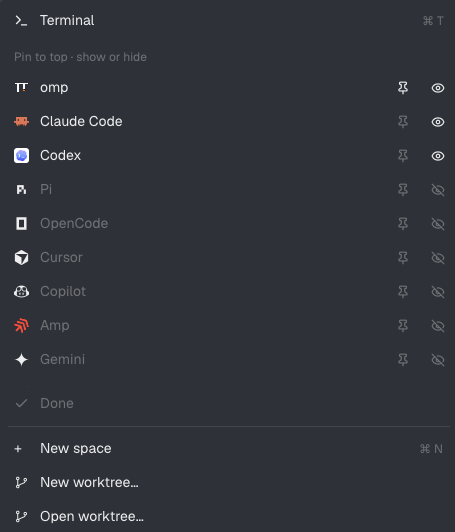
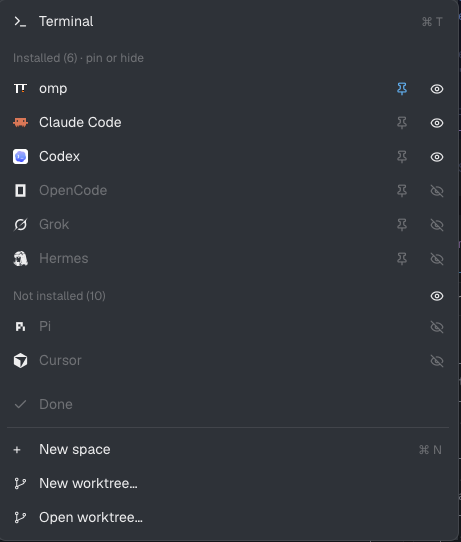
new-menu-plus: switch for not-installed agents, sectioned edit list, accent pins

diff --git a/new-menu-plus/mods/new-menu-plus/main.js b/new-menu-plus/mods/new-menu-plus/main.js
@@ -4,9 +4,11 @@ import { theme, spaces, panes, knownAgents, run, openOverlay, closeOverlay, prop
 
 // This mod's folder, for its own icons.
 const DIR = "mods/new-menu-plus";
-// Agent keys, persisted for every window, set under "Edit agents…".
+// Persisted for every window, set under "Edit agents…": agent keys, and whether
+// agents that aren't installed stay out of the menu.
 const HIDDEN = "newMenu.hidden";
 const PINNED = "newMenu.pinned";
+const HIDE_MISSING = "newMenu.hideMissing";
 
 /** @param {string} key @returns {string[]} */
 function keys(key) {
@@ -44,34 +46,46 @@ export default class NewMenu extends View {
       })
       .child(icon).child(div().flex_1().child(name)).child(div().text_size(11).text_color(t.dim).child(hint));
   }
-  // Edit mode: the row itself doesn't click; its pin and eye buttons do.
+  // Edit mode: the row itself doesn't click; its buttons do.
+  button(id, file, color, action) {
+    const t = theme();
+    return div().id(id).size(22).rounded(5).flex().items_center().justify_center()
+      .hover(s => s.bg(t.selected)).on_click(() => action())
+      .child(svg(`${DIR}/${file}`).size(13).text_color(color));
+  }
   editRow(a, icon, pinned, hidden) {
     const t = theme();
-    const button = (id, file, on, action) => div().id(id).size(22).rounded(5).flex().items_center().justify_center()
-      .hover(s => s.bg(t.selected)).on_click(() => action())
-      .child(svg(`${DIR}/${file}`).size(13).text_color(on ? t.foreground : t.dim));
     return h_flex().id(a.key).h(31).pl(9).pr(4).gap(10).rounded(7).items_center().flex_none()
       .text_color(hidden ? t.dim : t.foreground)
       .child(icon).child(div().flex_1().child(a.name))
-      .child(button(`pin-${a.key}`, "pin.svg", pinned, () => toggle(PINNED, a.key)))
-      .child(button(`eye-${a.key}`, hidden ? "eye-off.svg" : "eye.svg", !hidden, () => toggle(HIDDEN, a.key)));
+      .when(a.installed, el => el.child(this.button(`pin-${a.key}`, "pin.svg", pinned ? t.accent : t.dim, () => toggle(PINNED, a.key))))
+      .child(this.button(`eye-${a.key}`, hidden ? "eye-off.svg" : "eye.svg", hidden ? t.dim : t.foreground, () => toggle(HIDDEN, a.key)));
   }
   render() {
     const t = theme();
     const space = spaces().find(s => s.active);
     const hidden = new Set(keys(HIDDEN));
     const pinned = keys(PINNED);
+    const hideMissing = shared(HIDE_MISSING) === true;
     const rank = a => { const i = pinned.indexOf(a.key); return i < 0 ? pinned.length : i; };
     const ordered = [...this.agents].sort((a, b) => rank(a) - rank(b));
-    const installed = ordered.filter(a => a.installed && !hidden.has(a.key));
-    const choices = this.editing ? ordered : [...installed, ...ordered.filter(a => !a.installed && !hidden.has(a.key)).slice(0, 2)];
+    const all = ordered.filter(a => a.installed);
+    const missing = ordered.filter(a => !a.installed);
+    const installed = all.filter(a => !hidden.has(a.key));
+    const hiddenCount = all.length - installed.length;
     const mod = window()?.platform === "macos" ? "⌘" : "Ctrl";
     const icon = a => a.tint ? svg(a.icon).size(14).text_color(t.foreground) : image(a.icon).size(14);
-    const agentRow = (a, i) => this.editing
-      ? this.editRow(a, icon(a), pinned.includes(a.key), hidden.has(a.key))
-      : this.row(a.key, icon(a), a.name, () => run("tab.new", { name: a.name, space: space?.id, argv: a.run }),
-        a.installed ? (i < 9 ? `${mod} ${i + 1}` : "") : "not installed", a.installed);
-    return v_flex().min_h(0).w_full().h(Math.min(491, 198 + Math.max(1, choices.length) * 31)).bg(t.popover).p(5).text_size(12.8)
+    const editRow = a => this.editRow(a, icon(a), pinned.includes(a.key), hidden.has(a.key));
+    const rows = this.editing
+      ? [...all.map(editRow),
+        h_flex().id("missing").h(31).pl(9).pr(4).pt(6).items_center().flex_none().text_size(11).text_color(t.dim)
+          .child(div().flex_1().child(`Not installed (${missing.length})`))
+          .child(this.button("eye-missing", hideMissing ? "eye-off.svg" : "eye.svg", hideMissing ? t.dim : t.foreground, () => setShared(HIDE_MISSING, !hideMissing))),
+        ...(hideMissing ? [] : missing.map(editRow))]
+      : [...installed, ...(hideMissing ? [] : missing.filter(a => !hidden.has(a.key)).slice(0, 2))].map((a, i) =>
+        this.row(a.key, icon(a), a.name, () => run("tab.new", { name: a.name, space: space?.id, argv: a.run }),
+          a.installed ? (i < 9 ? `${mod} ${i + 1}` : "") : "not installed", a.installed));
+    return v_flex().min_h(0).w_full().h(Math.min(491, 198 + Math.max(1, rows.length) * 31)).bg(t.popover).p(5).text_size(12.8)
       .id("new-menu").track_focus(this.handle)
       .on_key_down((e) => {
         if (!e.modifiers.control && !e.modifiers.platform) return;
@@ -83,13 +97,13 @@ export default class NewMenu extends View {
         else run("space.new");
       })
       .child(this.row("terminal", svg("icons/shell.svg").size(14), "Terminal", () => run("tab.new", { space: space?.id }), `${mod} T`))
-      .child(div().px(9).pt(8).pb(4).text_size(11).text_color(t.dim).child(this.editing ? "Pin to top · show or hide" : "Start an agent"))
+      .child(div().px(9).pt(8).pb(4).text_size(11).text_color(t.dim).child(this.editing ? `Installed (${all.length}) · pin or hide` : "Start an agent"))
       .child(v_flex().flex_1().min_h(0).overflow_y_scrollbar()
-        .children(choices.map(agentRow))
+        .children(rows)
         .when(this.agents.length === 0, el => el.child(div().px(9).py(6).text_color(t.dim).child(this.failed ? "Could not load agents" : "Checking installed agents…"))))
       .child(this.row("edit-agents", svg(`${DIR}/${this.editing ? "check.svg" : "settings.svg"}`).size(14).text_color(t.dim),
         this.editing ? "Done" : "Edit agents\u2026", (cx) => { this.editing = !this.editing; cx.notify(); },
-        this.editing || hidden.size === 0 ? "" : `${hidden.size} hidden`, this.agents.length > 0, { close: false, dim: true }))
+        this.editing || hiddenCount === 0 ? "" : `${hiddenCount} hidden`, this.agents.length > 0, { close: false, dim: true }))
       .child(div().h(1).mx(4).my(5).bg(t.border))
       .child(this.row("space", div().w(14).child("+"), "New space", () => run("space.new"), `${mod} N`))
       .child(this.row("worktree", svg("mods/workspace-chrome/branch.svg").size(14), "New worktree…", () => openOverlay({ mod: "worktree", kind: "dialog", width: 460, height: 280, props: { space: space?.id, folder: panes().find(p => p.focused)?.cwd, action: "new" } }), "", Boolean(space)))

diff --git a/new-menu-plus/RECIPE.md b/new-menu-plus/RECIPE.md
@@ -2,9 +2,10 @@
 
 The tab bar's **+** menu (Terminal, Start an agent, New space, worktrees), with
 the agent list under your control: pin the agents you use to the top, hide the
-ones you never start. "Edit agents…" at the bottom of the list switches the
-menu into an edit mode where every known agent has a pin and an eye button.
-The choice persists across windows and restarts.
+ones you never start, and keep agents you haven't installed out of the menu
+with one switch. "Edit agents…" at the bottom of the list switches the menu
+into an edit mode with a pin and an eye button per agent. The choices persist
+across windows and restarts.
 
 ![New menu plus](preview.png)
 
@@ -17,18 +18,25 @@ between icon (14 px) and label, a dim 11 px hint on the right.
 Top to bottom:
 
 1. **Terminal** row, `icons/shell.svg`, hint `⌘ T` (`Ctrl T` off macOS).
-2. Section label, 11 px dim: "Start an agent" (edit mode: "Pin to top · show or hide").
+2. Section label, 11 px dim: "Start an agent" (edit mode: "Installed (N) · pin or hide").
 3. **Agent list**, scrollable:
    - Normal mode: installed, not hidden agents (pinned first, in pin order, then
-     Herdr's order), hint `⌘ 1` … `⌘ 9`; then up to two not-installed, not hidden
-     agents, dimmed, hint "not installed", not clickable.
-   - Edit mode: every known agent in the same order. Hidden ones are dimmed.
-     Right side: a 22 px pin button (`pin.svg`, foreground when pinned, dim
-     when not) and a 22 px eye button (`eye.svg` shown / `eye-off.svg` hidden).
+     Herdr's order), hint `⌘ 1` … `⌘ 9`; then, unless not-installed agents are
+     switched off, up to two not-installed, not hidden agents, dimmed, hint
+     "not installed", not clickable.
+   - Edit mode, two sections. First every installed agent in the same order,
+     hidden ones dimmed; right side a 22 px pin button (`pin.svg`,
+     `theme().accent` when pinned, dim when not) and a 22 px eye button
+     (`eye.svg` foreground when shown, `eye-off.svg` dim when hidden). Then an
+     11 px dim header "Not installed (N)" with its own eye button, which shows
+     or hides all not-installed agents at once. Shown (`eye.svg`): they are
+     listed below the header, each with an eye button only (pinning them would
+     do nothing). Hidden (`eye-off.svg`): the section is just the header, and
+     normal mode lists none of them.
    - Agent icons: `svg(icon)` tinted with the foreground when the program is
      `tint`, else `image(icon)`.
-4. **Edit agents…** row, dim, `settings.svg`; hint "N hidden" when anything is
-   hidden. In edit mode it reads **Done** with `check.svg`.
+4. **Edit agents…** row, dim, `settings.svg`; hint "N hidden" when installed
+   agents are hidden. In edit mode it reads **Done** with `check.svg`.
 5. 1 px divider (`theme().border`).
 6. **New space** (`+`, hint `⌘ N`), **New worktree…**, **Open worktree…**
    (`mods/workspace-chrome/branch.svg`, disabled without an active space).
@@ -55,7 +63,7 @@ Height: `min(491, 198 + max(1, rows) * 31)` px.
   `eye-off`, `check`, `settings`. A `DIR` constant holds the folder for its icon paths.
 - `herdr`: `knownAgents({ on: activeSpace.machine })` (once in `init`, in `cx.spawn`),
   `shared` / `setShared` with keys `newMenu.hidden` and `newMenu.pinned` (arrays of
-  agent keys), `run("tab.new" | "space.new")`, `openOverlay` for the shipped
+  agent keys) and `newMenu.hideMissing` (boolean), `run("tab.new" | "space.new")`, `openOverlay` for the shipped
   `worktree` dialog (`{action: "new"}` 460×280, `{action: "open"}` 560×480),
   `closeOverlay(props().overlay)`, `spaces()`, `panes()`, `window().platform`, `theme()`.
 - Started from the shipped `new-menu` mod; it replaces it.
@@ -82,6 +90,8 @@ Height: `min(491, 198 + max(1, rows) * 31)` px.
 ## Done when
 
 - Opening the + menu lists installed agents with `⌘ 1…` hints and up to two "not installed" ones.
+- Edit agents… → eye on the "Not installed" header → Done: no "not installed"
+  rows are left; in edit mode the header stands alone.
 - Edit agents… → eye on an agent → Done: the agent is gone from the list and the
   hint shows "1 hidden"; its number went to the next agent.
 - Pin an agent in edit mode: after Done it is the first agent row and starts with `⌘ 1`.
